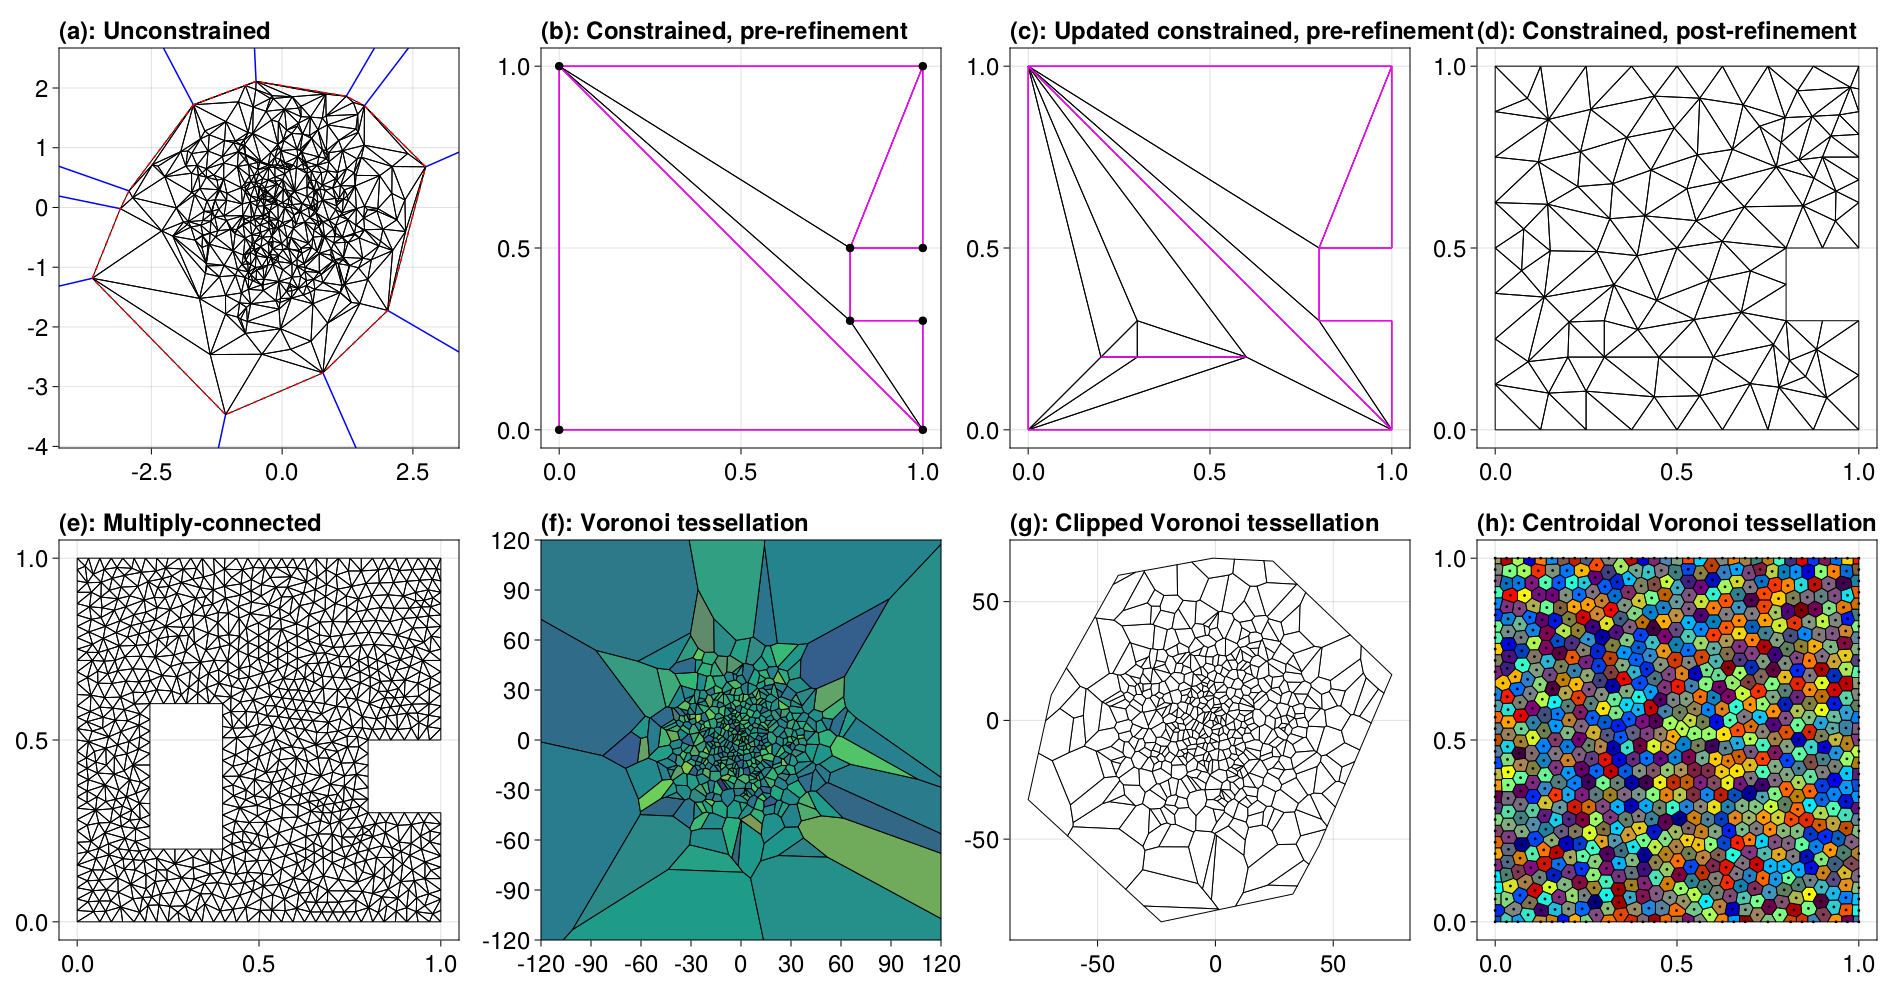
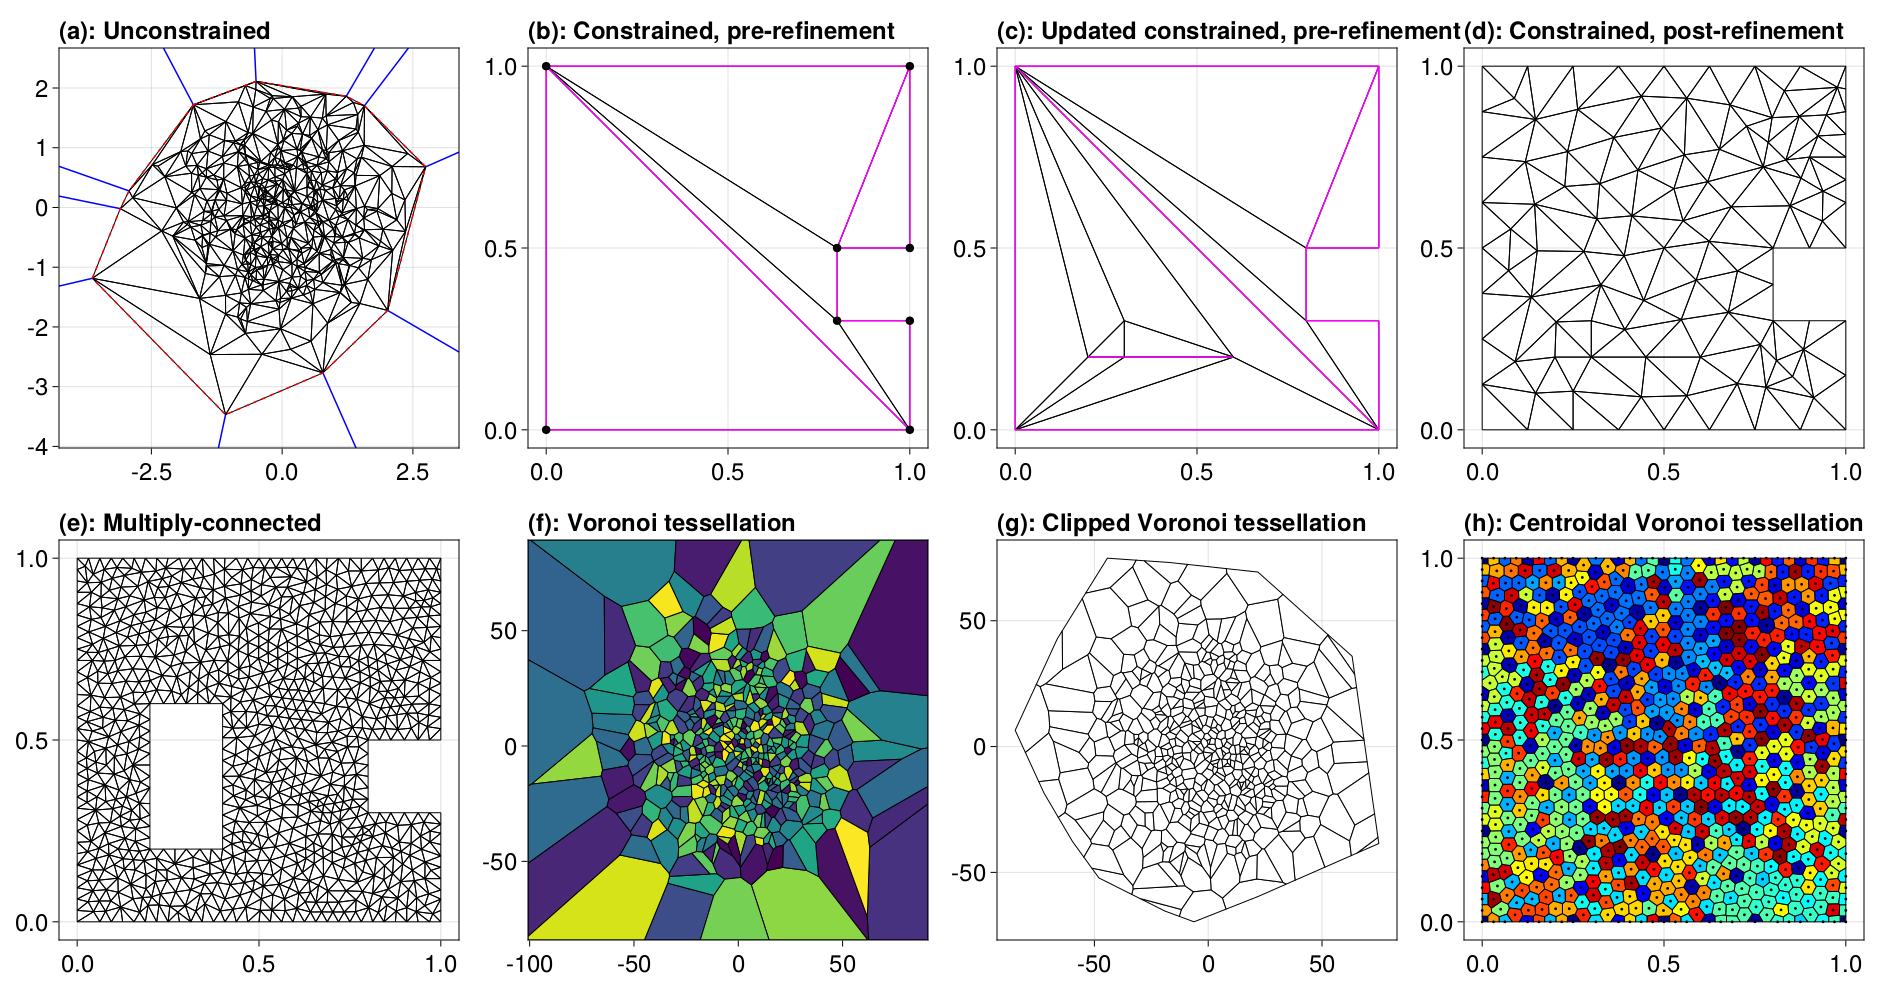
Some fixes for new Makie version

diff --git a/README.md b/README.md
@@ -8,10 +8,8 @@
 This is a package for constructing Delaunay triangulations and Voronoi tessellations of planar point sets. Supports unconstrained and constrained triangulations, mesh refinement, Voronoi tessellations, and clipped and centroidal Voronoi tessellations. All geometric predicates are computed via [ExactPredicates.jl](https://github.com/lairez/ExactPredicates.jl). To install the package, do
 
 ```julia
-julia>] add DelaunayTriangulation@0.7.2
+julia>] add DelaunayTriangulation
 ```
-
-(The specification for the version 0.7.2 is due to an issue https://github.com/DanielVandH/DelaunayTriangulation.jl/issues/88 that will very soon be fixed.)
 
 Many features are available, some of these being:
 
@@ -35,17 +33,16 @@ Some examples are below (and in the docs), but if you would also like to see how
 
 ## Quick Example 
 
-See the docs for plenty of examples. For now, here are some small examples.
+See the docs for plenty of examples. For now, here are some small examples. Note that, for computing the triangulations and tessellations, all you need is `DelaunayTriangulation`, but for visualising you need `CairoMakie`.
 
 ```julia
-using DelaunayTriangulation, CairoMakie, StableRNGs
+using DelaunayTriangulation, CairoMakie
 
 fig = Figure(fontsize=24)
 
 ## Unconstrained example: Just some random points 
-rng = StableRNG(2)
-pts = randn(rng, 2, 500)
-tri = triangulate(pts; rng)
+pts = randn(2, 500)
+tri = triangulate(pts)
 ax = Axis(fig[1, 1], title="(a): Unconstrained", titlealign=:left, width=400, height=400)
 triplot!(ax, tri, show_convex_hull=true, show_ghost_edges=true)
 
@@ -60,19 +57,19 @@ triplot!(ax, tri, show_points=true, show_constrained_edges=true)
 
 ## Dynamic updating 
 n = num_points(tri)
-add_point!(tri, (0.2, 0.2); rng)
-add_point!(tri, (0.8, 0.8); rng)
-add_point!(tri, (0.3, 0.2); rng)
-add_point!(tri, (0.6, 0.2); rng)
-add_point!(tri, (0.3, 0.3); rng)
-add_edge!(tri, (n + 1, n + 4); rng)
-delete_point!(tri, n + 2; rng)
+add_point!(tri, (0.2, 0.2))
+add_point!(tri, (0.8, 0.8))
+add_point!(tri, (0.3, 0.2))
+add_point!(tri, (0.6, 0.2))
+add_point!(tri, (0.3, 0.3))
+add_edge!(tri, (n + 1, n + 4))
+delete_point!(tri, n + 2)
 ax = Axis(fig[1, 3], title="(c): Updated constrained, pre-refinement", titlealign=:left, width=400, height=400)
 triplot!(ax, tri, show_constrained_edges=true)
 
 ## Refinement example
 A = get_total_area(tri)
-refine!(tri; max_area=1e-2A, min_angle=28.7, rng)
+refine!(tri; max_area=1e-2A, min_angle=28.7)
 ax = Axis(fig[1, 4], title="(d): Constrained, post-refinement", titlealign=:left, width=400, height=400)
 triplot!(ax, tri)
 
@@ -82,32 +79,29 @@ outer_boundary = [[(0.0, 0.0), (1.0, 0.0), (1.0, 0.3), (0.8, 0.3),
 inner_boundary = [[(0.2, 0.2), (0.2, 0.6), (0.4, 0.6), (0.4, 0.2), (0.2, 0.2)]]
 boundary_nodes, points = convert_boundary_points_to_indices([outer_boundary, inner_boundary])
 edges = Set(((2, 8), (5, 7)))
-tri = triangulate(points; boundary_nodes, edges, rng)
+tri = triangulate(points; boundary_nodes, edges)
 A = get_total_area(tri)
-refine!(tri; max_area=1e-3A, min_angle=31.5, rng)
+refine!(tri; max_area=1e-3A, min_angle=31.5)
 ax = Axis(fig[2, 1], title="(e): Multiply-connected", titlealign=:left, width=400, height=400)
 triplot!(ax, tri)
 
 ## Voronoi tessellation: Make tessellations from their dual triangulation
-pts = 25randn(rng, 2, 500)
-tri = triangulate(pts; rng)
+pts = 25randn(2, 500)
+tri = triangulate(pts)
 vorn = voronoi(tri)
 ax = Axis(fig[2, 2], title="(f): Voronoi tessellation", titlealign=:left, width=400, height=400)
 voronoiplot!(ax, vorn, show_generators=false)
-xlims!(ax, -120, 120)
-ylims!(ax, -120, 120)
-
 ## Clipped Voronoi tessellation 
 vorn = voronoi(tri, true)
 ax = Axis(fig[2, 3], title="(g): Clipped Voronoi tessellation", titlealign=:left, width=400, height=400)
-voronoiplot!(ax, vorn, show_generators=false, polygon_color=:white)
+voronoiplot!(ax, vorn, show_generators=false, color=:white)
 
 ## Centroidal Voronoi tessellation (CVT)
 points = [(0.0, 0.0), (1.0, 0.0), (1.0, 1.0), (0.0, 1.0)]
-tri = triangulate(points; boundary_nodes=[1, 2, 3, 4, 1], rng)
-refine!(tri; max_area=1e-3, min_angle=29.871, rng)
+tri = triangulate(points; boundary_nodes=[1, 2, 3, 4, 1])
+refine!(tri; max_area=1e-3, min_angle=29.871)
 vorn = voronoi(tri)
-smooth_vorn = centroidal_smooth(vorn; maxiters=2500, rng)
+smooth_vorn = centroidal_smooth(vorn; maxiters=2500)
 ax = Axis(fig[2, 4], title="(h): Centroidal Voronoi tessellation", titlealign=:left, width=400, height=400)
 voronoiplot!(ax, smooth_vorn, show_generators=true, markersize=4, colormap=:jet)
 
